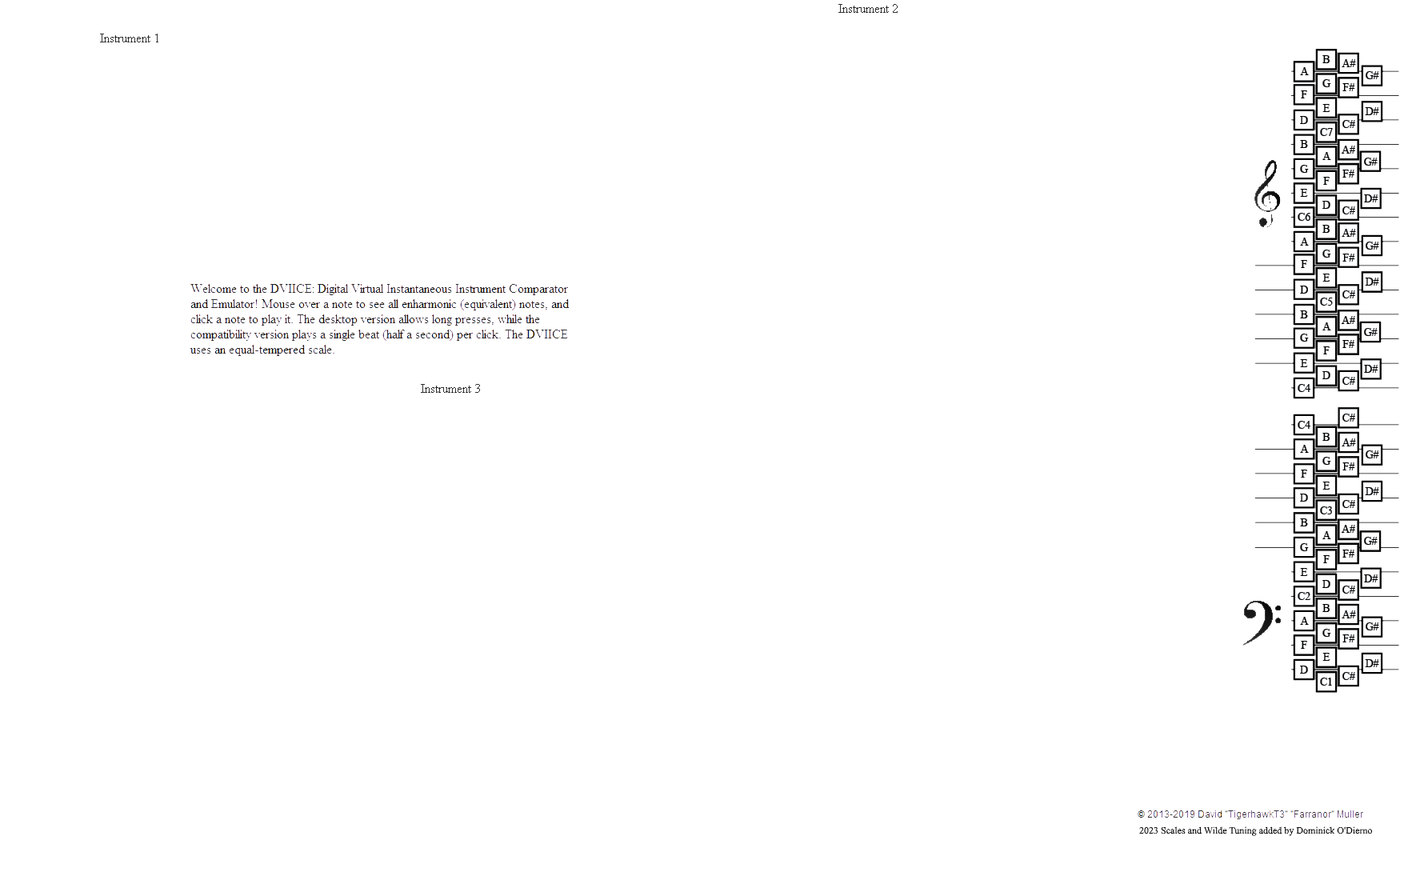
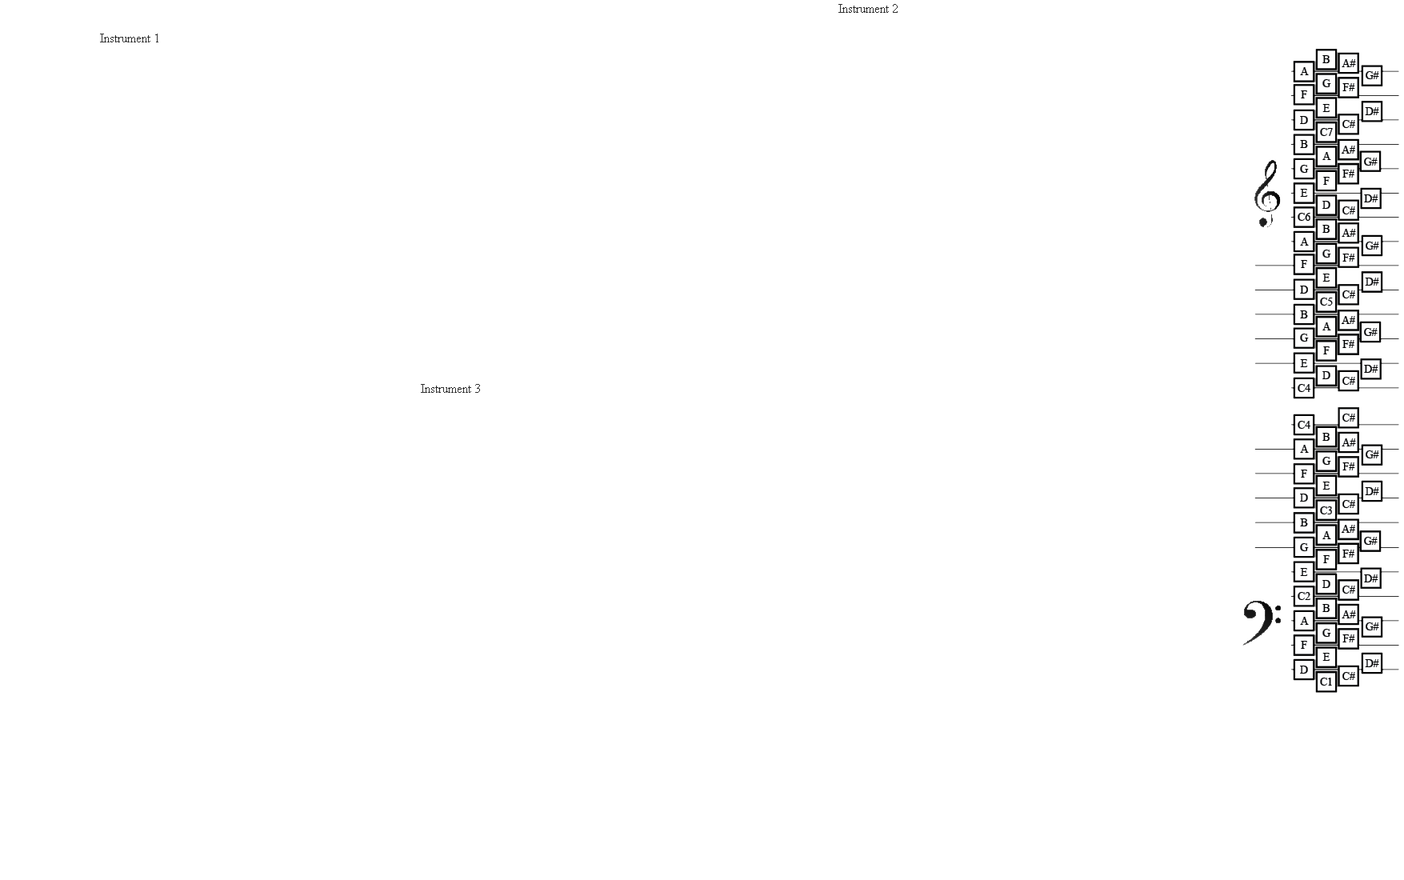
added paddy richter
added paddy richter

Changed region(s): [[0.1225, 0.3068, 0.3981, 0.3989], [0.7963, 0.9205, 0.9801, 0.9511]]

diff --git a/scripts/dynamiccontent.js b/scripts/dynamiccontent.js
@@ -6,7 +6,7 @@ img = {diatonicrichter: '<img src="diatonic.png">',
        chromatic16: '<img src="chromatic16.png">',
        diatonicminor: '<img src="diatonicminor.png">',
        diatonicwildetuned: '<img src="wildetuned.png">',
-       paddywildetuned: '<img src="wildetuned.png">',
+       paddywildetuned: '<img src="paddywilde.png">',
        diatonicwildeminor: '<img src="wildeminor.png">',
        diatonicpowerbender: '<img src="powerbender.png">',
        ukulele: '<img src="ukulele.png">'}

diff --git a/harmonicatuninggenerator/PaddyRichterHarmonicaTuning.cs b/harmonicatuninggenerator/PaddyRichterHarmonicaTuning.cs
@@ -1,0 +1,94 @@
+namespace Namespace;
+public class PaddyRichterHarmonicaTuning : TenHoleHarmonica
+{
+
+    public PaddyRichterHarmonicaTuning()
+    {
+        TuningName = "PaddyRichterTuned";
+
+        WholeStepBlowBend = new List<string>
+        {
+            "", //1
+            "", //2
+            "", //3
+            "", //4
+            "", //5
+            "", //6
+            "", //7
+            "", //8
+            "", //9
+            "A6s" //10
+        }
+        
+        HalfStepBlowBend = new List<string>
+        {
+            "D4s", //1
+            "G4s", //2
+            "C5", //3
+            "D5s", //4
+            "F5s", //5
+            "A5s", //6
+            "", //7
+            "D6s", //8
+            "F6s", //9
+            "B6" //10
+        };
+
+        BlowReed = new List<string>
+        {
+            "C4", //1
+            "E4", //2
+            "A4", //3
+            "C5", //4
+            "E5", //5
+            "G5", //6
+            "C6", //7
+            "E6", //8
+            "G6", //9
+            "C7" //10
+        };
+
+        DrawReed = new List<string>
+        {
+            "D4", //1
+            "G4", //2
+            "B4", //3
+            "D5", //4
+            "F5", //5
+            "A5", //6
+            "B5", //7
+            "D6", //8
+            "F6", //9
+            "A6" //10
+        };
+
+        HalfStepDrawBend = new List<string>
+        {
+            "C4s", //1
+            "F4s", //2
+            "A4s", //3
+            "C5s", //4
+            "", //5
+            "G5s", //6
+            "C6s", //7
+            "F6", //8
+            "G6s", //9
+            "C7s" //10
+        };
+
+        WholeStepDrawBend = new List<string>()
+        {
+            "", //1
+            "F4", //2
+            "", //3
+            "", //4
+            "", //5
+            "", //6
+            "", //7
+            "", //8
+            "", //9
+            "" //10
+        };  
+
+    }
+}

diff --git a/harmonicatuninggenerator/Program.cs b/harmonicatuninggenerator/Program.cs
@@ -5,5 +5,5 @@ using Namespace;
 var generator = new TuningGenerator();
 
 
-generator.Generate(new PaddyWildeHarmonicaTuning());
+generator.Generate(new PaddyRichterHarmonicaTuning());
 
